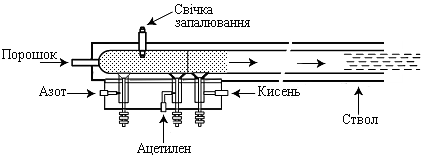
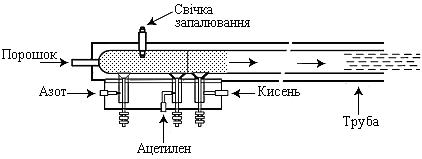
Невеликі зміни зображень

diff --git a/our_development.html b/our_development.html
@@ -96,7 +96,7 @@
                 </p>
                 <p class="our-info2 ukraine">Схема пристрою PCD-гармати показана на рис. 2. Пристрій складається з поршневого компресора (1), що складається з циліндра (2) і поршня (3), як показано на малюнку. Зворотно-поступальний рух поршня (3) забезпечується кривошипно-шатунним механізмом (4), сполученим із зовнішнім приводом. Верху циліндра (2) розташована головку циліндра (5) з впускним патрубком (6) і клапаном (7). Система подачі палива і повітря (8) з'єднана з впускним патрубком (6). Детонаційна трубка-циліндр (9) з'єднана з циліндром (2) поршневого компресора (1) через випускний патрубок (10) в голівці циліндра (5). Примусове займання суміші проводиться за допомогою звичайної автомобільної системи запалювання (11). Порошок впорскується в трубу за допомогою пристрою подачі порошку (12). Спеціальний клапан, розташований в патрубку (10), використовувався для запобігання зворотного потоку продуктів згоряння під час такту впуску.</p>
                 <img class="system2-img ukraine" width="25%" height="25%" src="img/Fig_2.png" alt="Схема пристрою PCD-гармати" />
-                <p class="our-info4 ukraine">Рис. 2. Схема PCD-гармати: 1 - компресор поршневого типу; 2 - циліндр; 3 - поршень; 4 - кривошипно-шатунний механізм; 5 - головка компресора; 6 - впускний патрубок; 7 - клапан; 8 - система подачі палива; 9 - ствол; 10 - патрубок; 11 - свічка запалювання; 12 - бункер для порошку.</p>
+                <p class="our-info4 ukraine">Рис. 2. Схема PCD-гармати: 1 - компресор поршневого типу; 2 - циліндр; 3 - поршень; 4 - кривошипно-шатунний механізм; 5 - головка компресора; 6 - впускний патрубок; 7 - клапан; 8 - система подачі палива; 9 - труба; 10 - патрубок; 11 - свічка запалювання; 12 - бункер для порошку.</p>
 
             <!-- ********************************Український блок END*************************** -->
 

diff --git a/decorative_brick.html b/decorative_brick.html
@@ -10,8 +10,8 @@
         <!-- Google fonts-->
         <link href="https://fonts.googleapis.com/css?family=Varela+Round" rel="stylesheet" />
         <link href="https://fonts.googleapis.com/css?family=Nunito:200,200i,300,300i,400,400i,600,600i,700,700i,800,800i,900,900i" rel="stylesheet" />         
-<!--         <link href="css/styles.css" rel="stylesheet"/> -->
-        <link href="css/styles.min.css" rel="stylesheet"/>     
+        <link href="css/styles.css" rel="stylesheet"/>
+        <!-- <link href="css/styles.min.css" rel="stylesheet"/>      -->
     </head>
     <body class="our-dev page-body">
 

diff --git a/css/styles.css b/css/styles.css
@@ -387,7 +387,7 @@
 }
 
 .footer-info-offset {
-  margin-top: 113px;
+  margin-top: 134px;
 }
 
 .decorative-offset {
